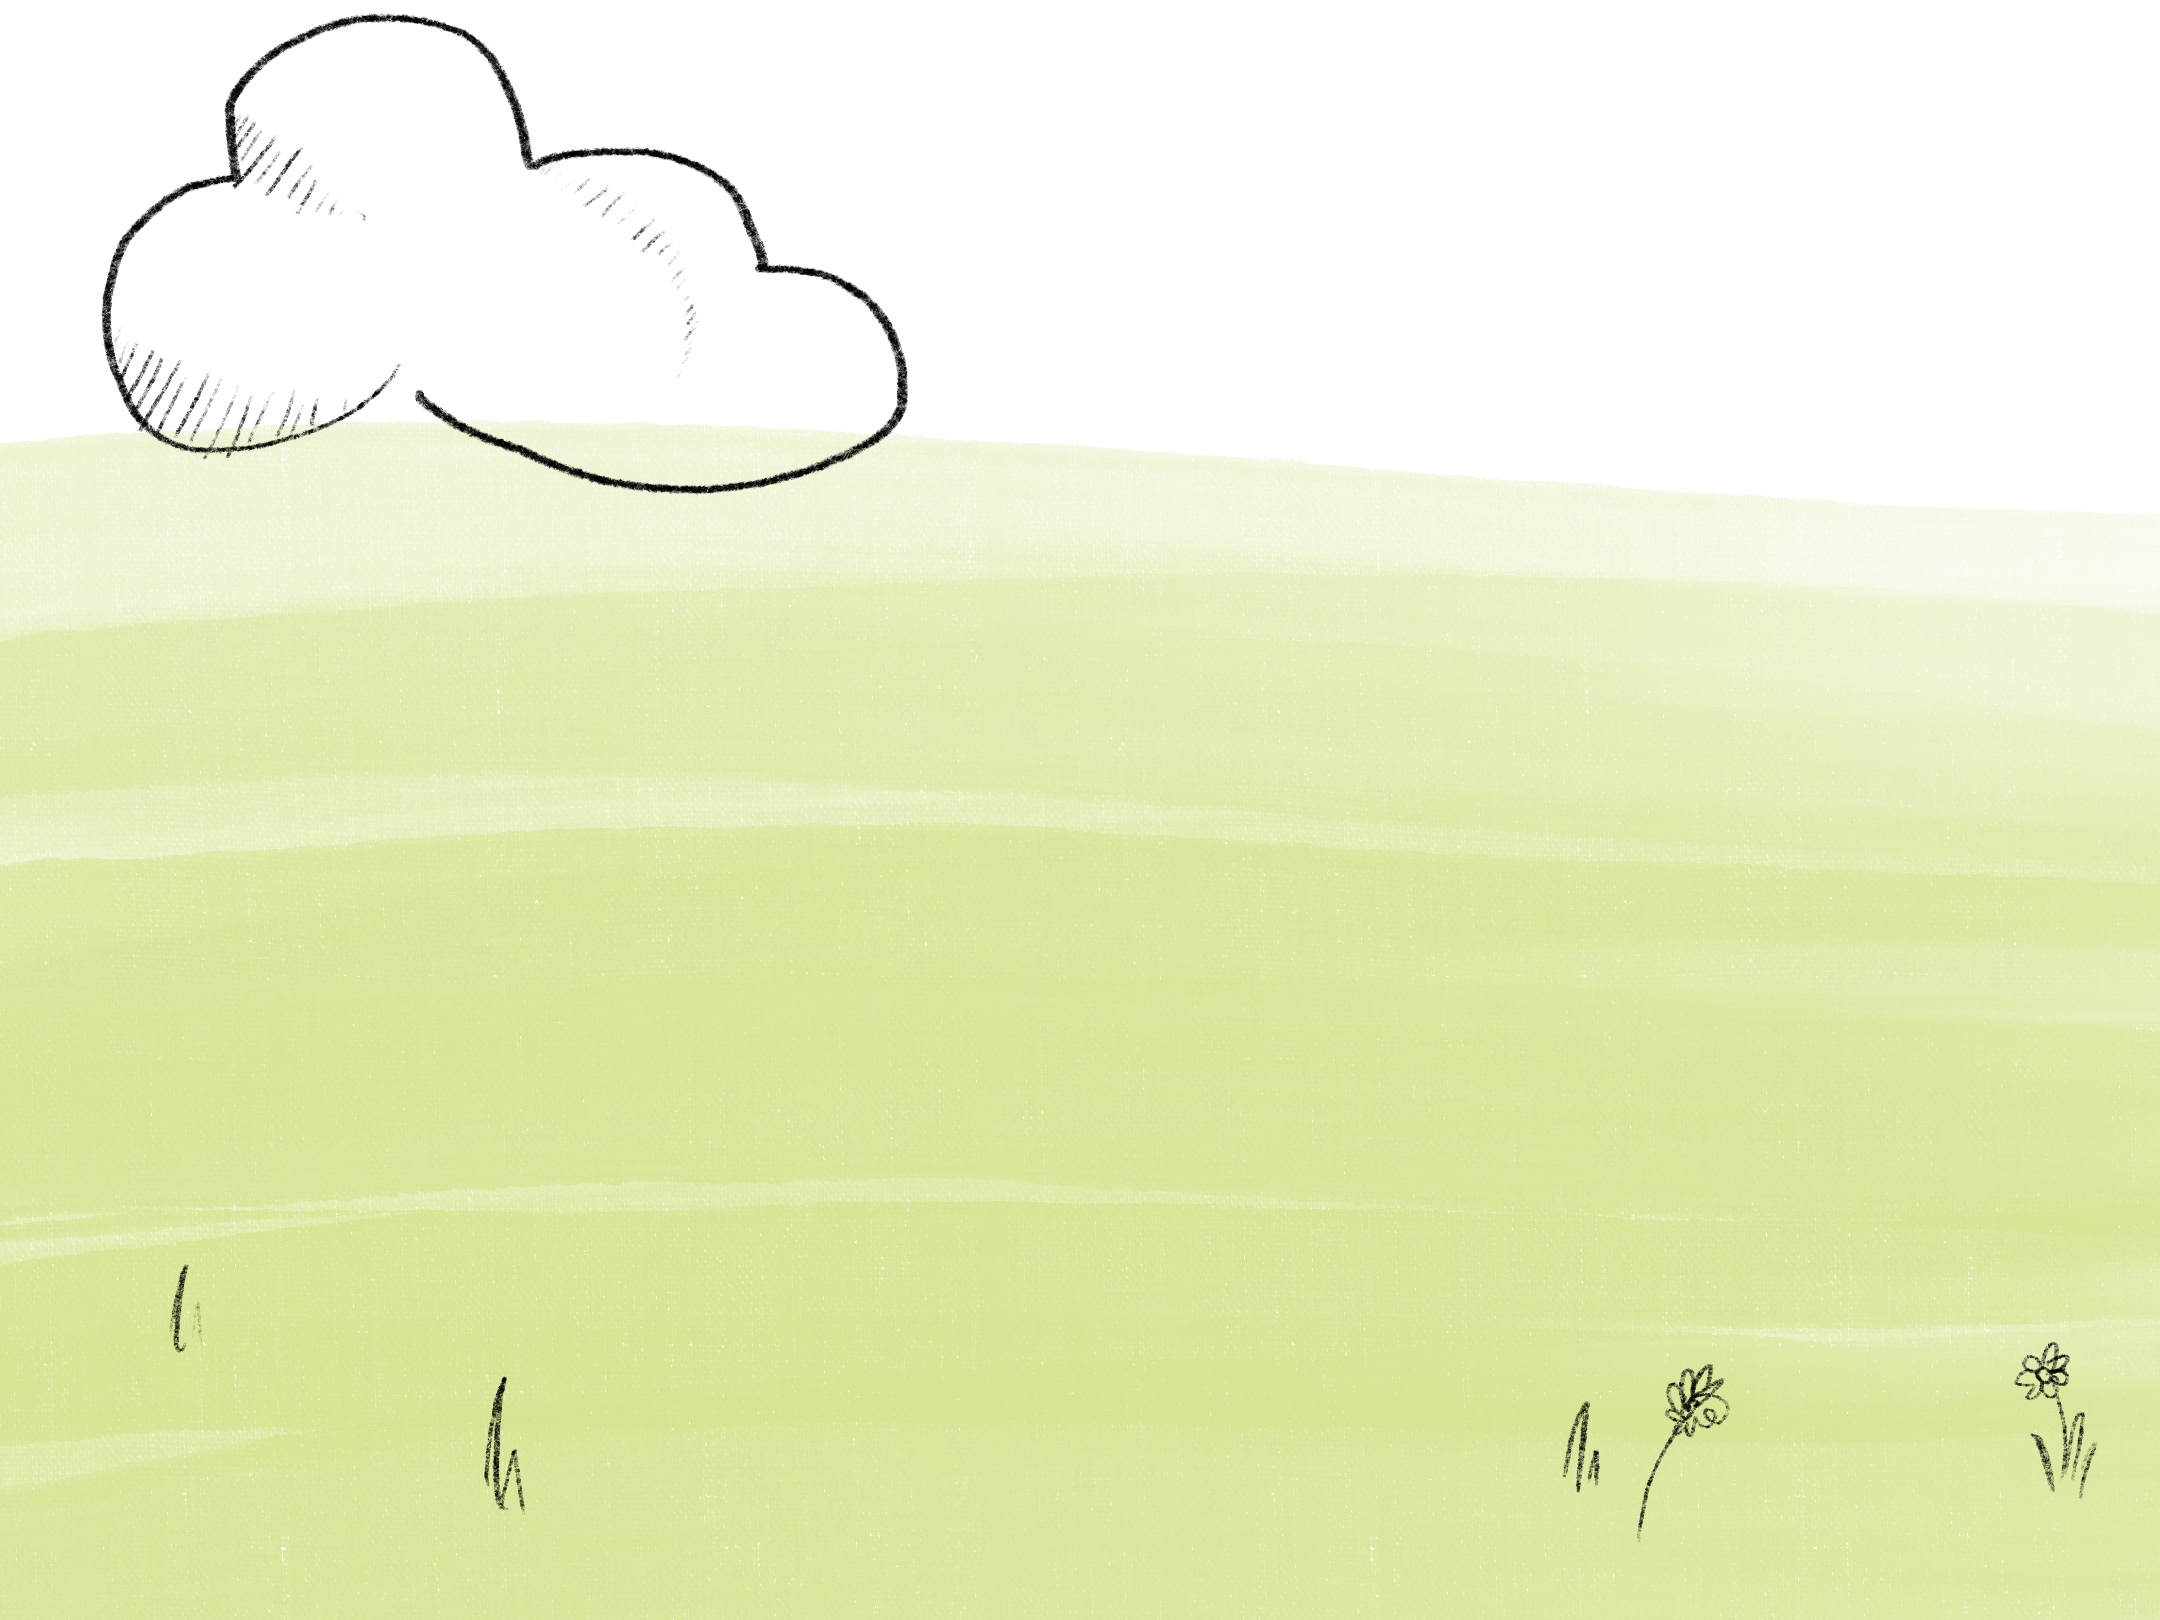
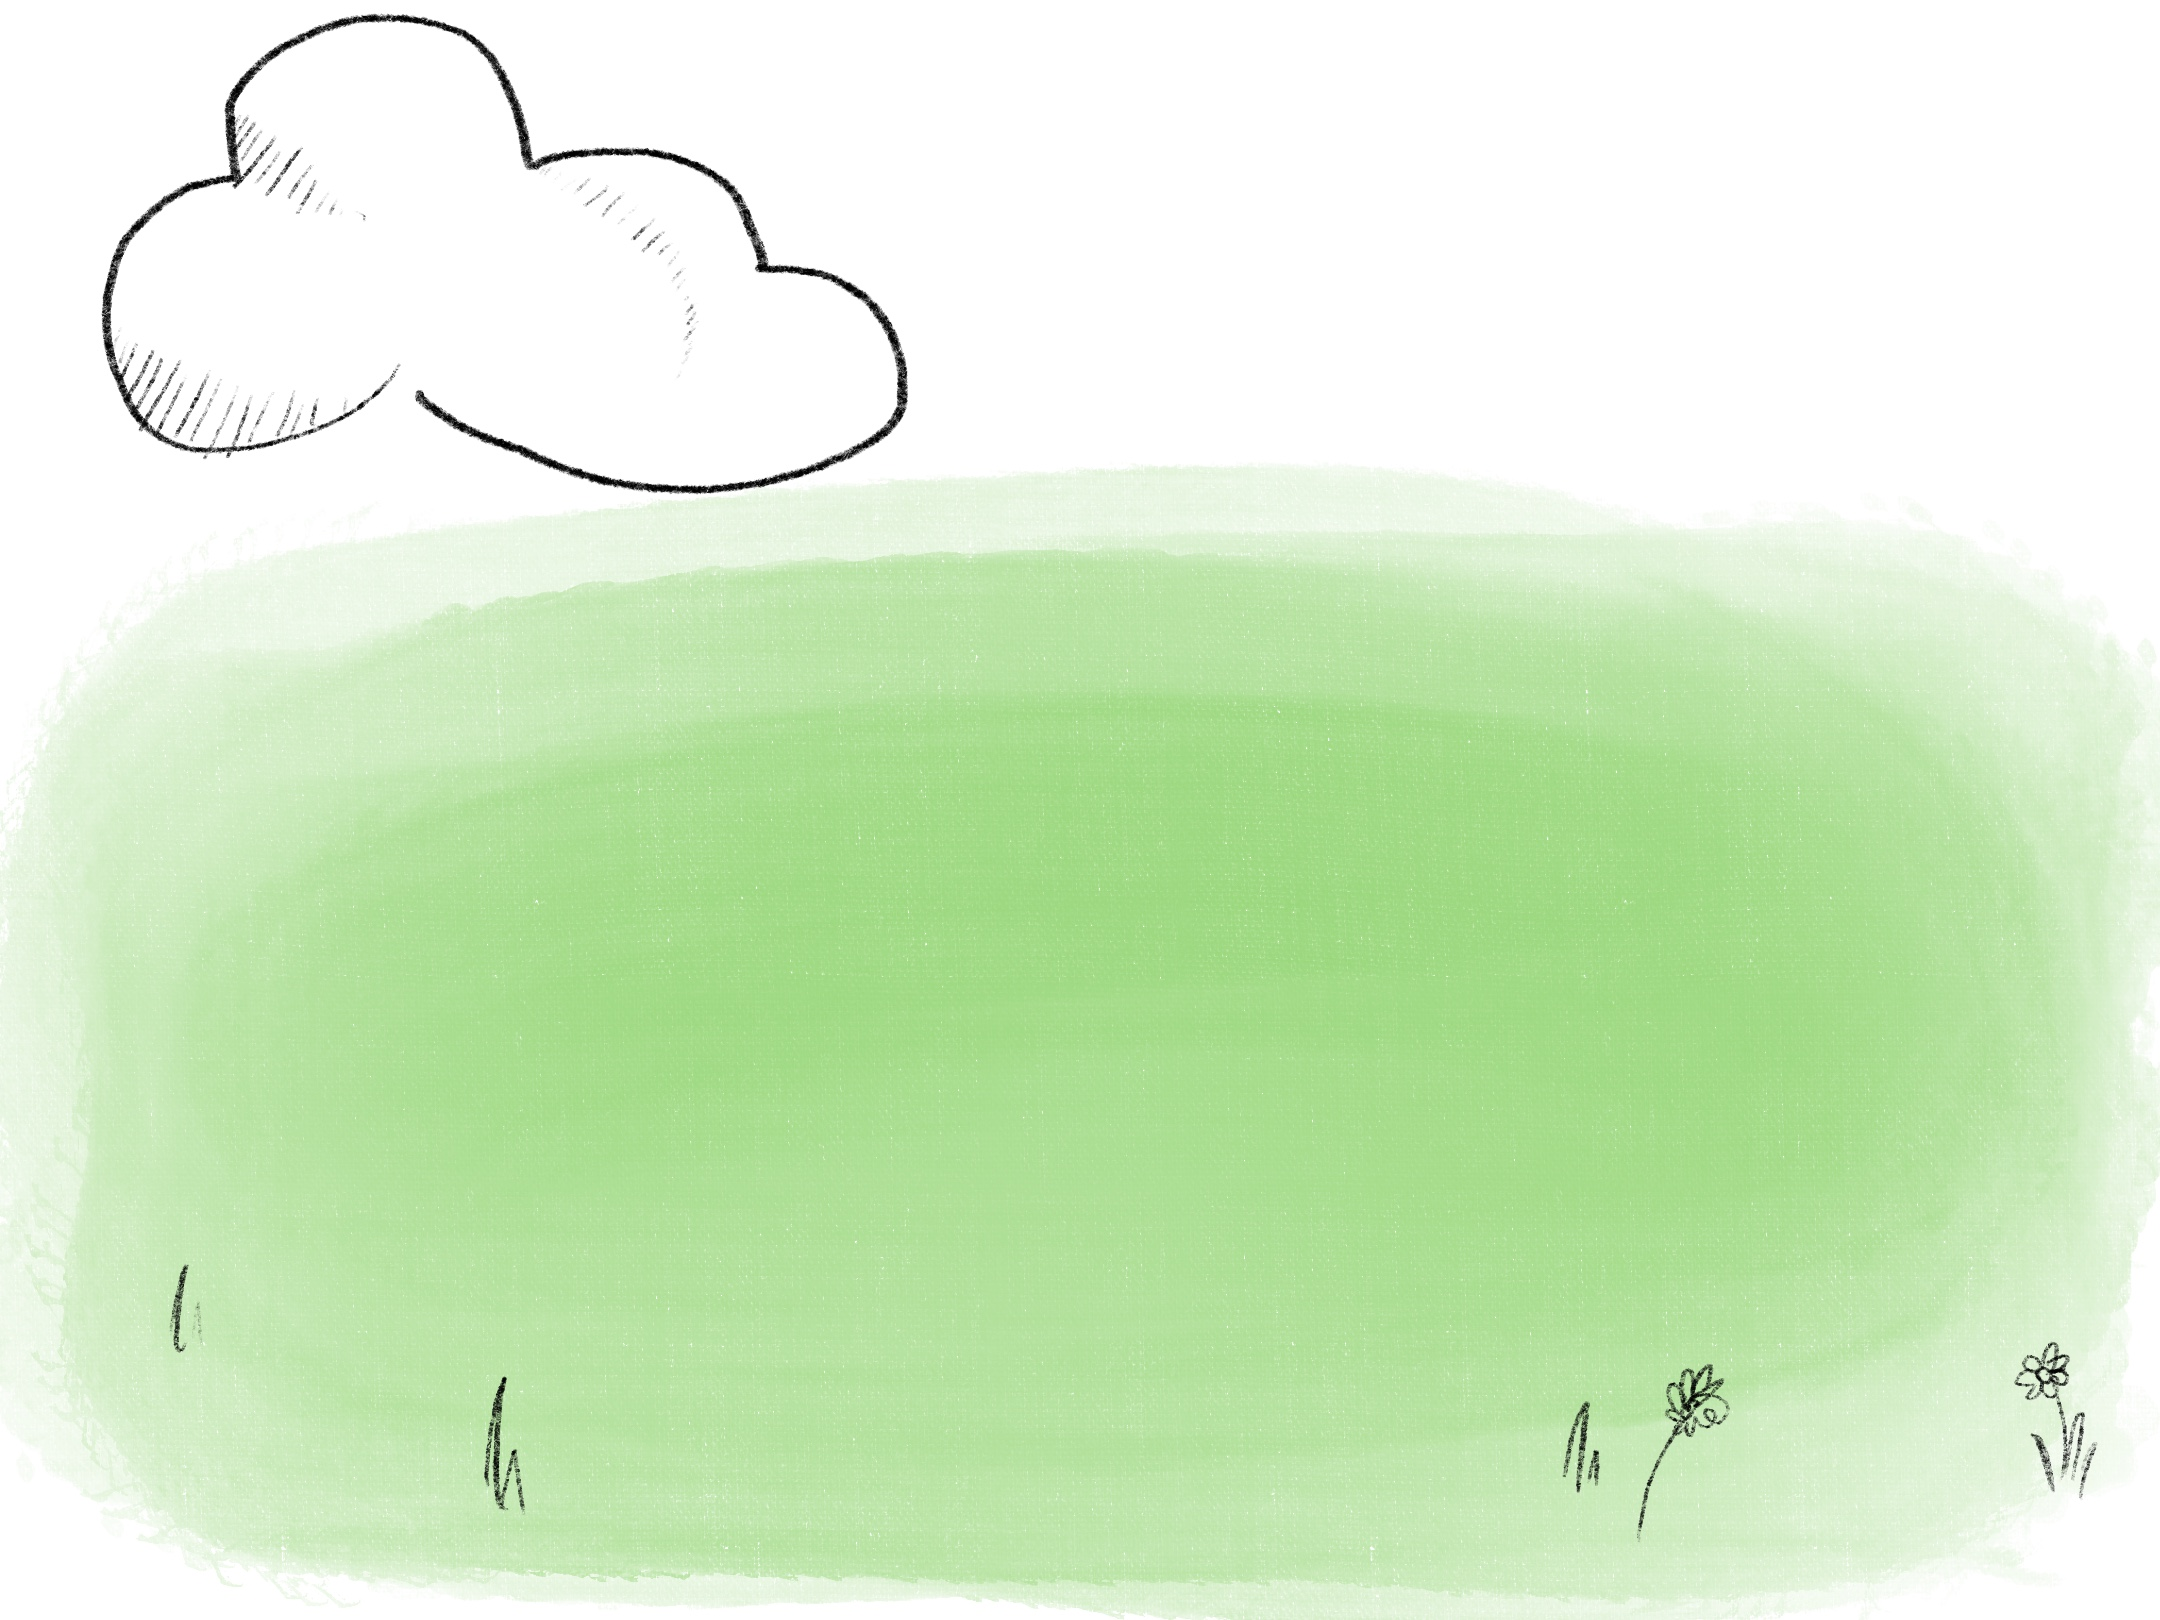
limitless

diff --git a/src/routes/+page.svelte b/src/routes/+page.svelte
@@ -1,13 +1,23 @@
 <script lang="ts">
     import Map from "$lib/stopmap.svelte";
     import Sign from "$lib/sign.svelte";
+    import { map } from "../stores/currentpage.js";
 </script>
 
-<div class="page">
-    <Map />
-    <Sign />
-    <h1 id="this" style="font-weight: normal;">trundle</h1>
-</div>
+<body>
+    <div
+        class="page"
+        style={$map
+            ? "background-image: none;"
+            : "background-image: url(grass.jpg);"}
+    >
+        <Map />
+        <Sign />
+        <div class="footer">
+            <h1 id="this" style="font-weight: normal;">trundle</h1>
+        </div>
+    </div>
+</body>
 
 <style>
     .page {
@@ -17,13 +27,18 @@
         background-repeat: no-repeat;
         background-position: center;
         background-size: 100% 100%;
+        margin: 0px;
+    }
+
+    body {
+        margin: 0px;
     }
 
     #this {
         position: fixed;
         top: 8px;
         right: 50px;
-        font-size: 30pt;
+        font-size: 40pt;
         text-align: center;
     }
 </style>

diff --git a/src/lib/stopmap.svelte b/src/lib/stopmap.svelte
@@ -44,7 +44,6 @@
                     class="map-contents"
                     style={transform(stop.stop_lat, stop.stop_lon)}
                 >
-                    <!-- <div class="dot"></div> -->
                     <button
                         class={status}
                         on:click={() => handleStopClick(stop)}
@@ -55,12 +54,11 @@
                 </div>
             {/each}
         </div>
-
-        <h1 id="this">
-            {$start.stop_name} --> {$dest.stop_name}
-        </h1>
     </div>
 {/if}
+<h1 id="this">
+    {$start.stop_name} --> {$dest.stop_name}
+</h1>
 
 <style>
     .map_container {
@@ -71,12 +69,11 @@
         justify-content: center;
         align-items: center;
     }
-
     .map {
         background-image: url("map.jpg");
         background-repeat: no-repeat;
         background-position: center;
-        border: 2px solid black;
+        /* border: 2px solid black; */
         position: relative;
         width: 850px;
         height: 840px;

diff --git a/src/lib/sign.svelte b/src/lib/sign.svelte
@@ -256,7 +256,7 @@
         flex-direction: column;
         justify-content: flex-start;
         align-items: center;
-        margin: 20px;
+        /* margin: 20px; */
         font-size: 18pt;
     }
 
@@ -273,12 +273,11 @@
         flex-direction: column;
         justify-content: space-around;
         align-items: center;
-        /* background-color: lightgray; */
         width: 65%;
     }
 
     table {
-        margin-left: 30%;
+        margin-left: 35%;
         border-spacing: 10px;
         padding-left: 12px;
         padding-right: 12px;
@@ -313,7 +312,6 @@
     .stop {
         justify-self: end;
         height: 200px;
-        margin-right: 175px;
         transform: translateY(80px);
     }
 </style>

diff --git a/src/app.css b/src/app.css
@@ -4,7 +4,9 @@
     font-family: "EB Garamond", serif;
 }
 
-#this {
+h1#this {
     font-size: 30px;
     text-align: center;
+    padding: 0;
+    margin: 0;
 }
